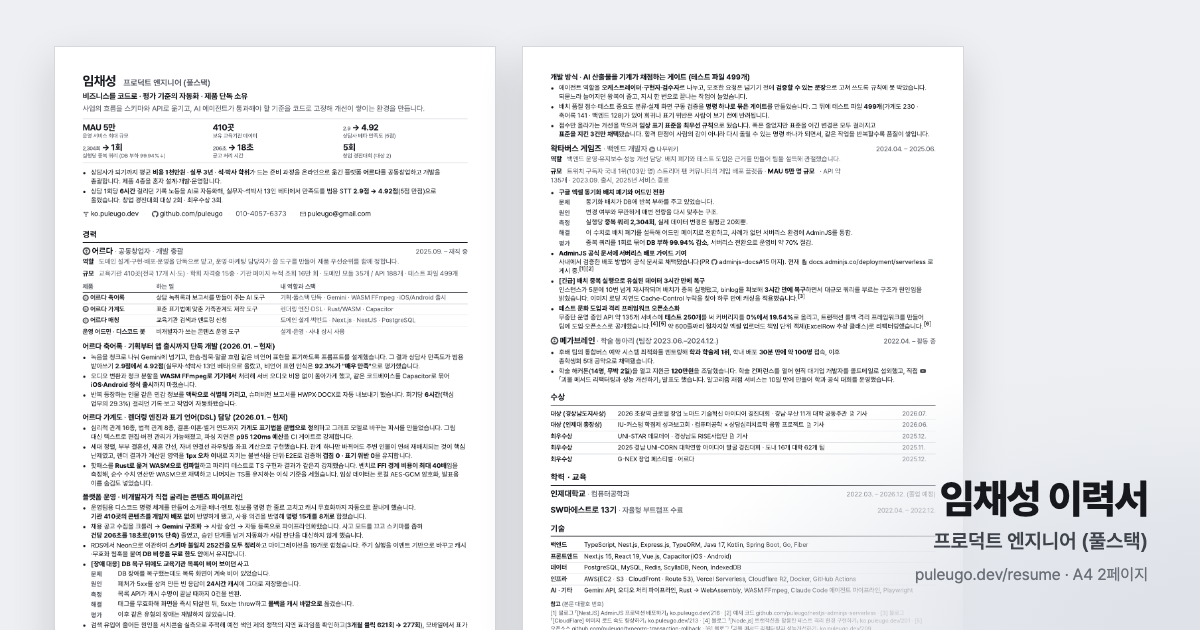
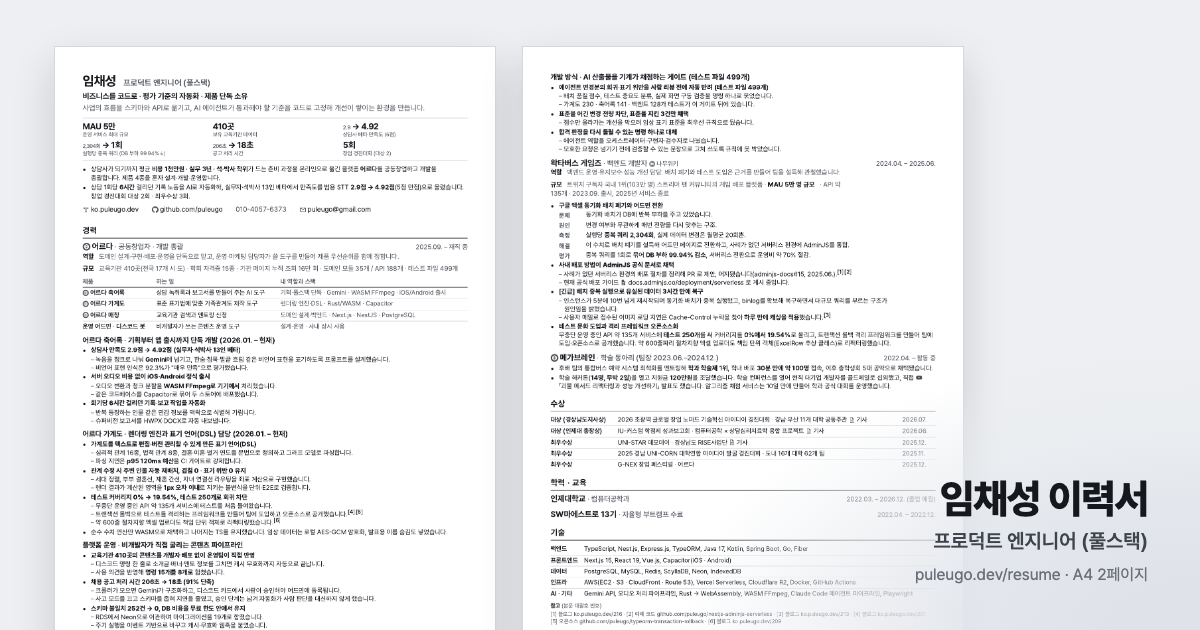
refactor: 성과를 앞세운 2단 위계로 작업 항목 재구성
- 각 항목 제목을 결과 문장(수치 포함)으로 바꾸고, 방법·배경은 하위 줄로 내림
- 개선 대상을 문장에 명시(공고 처리 시간, 상담사 만족도, 테스트 커버리지 등)
- 블록 대신 항목 단위로만 페이지 나눔을 막고 인쇄 여백을 조정해 A4 2페이지 유지
- 참고 목록을 URL 중심으로 축약, og.png 재생성

Claude-Session: https://claude.ai/code/session_01W7x6f6aizACV8L1Ey8iNMM

Changed region(s): [[0.0617, 0.1508, 0.4008, 1.0], [0.4625, 0.1206, 0.8017, 1.0]]

diff --git a/resume/index.html b/resume/index.html
@@ -132,7 +132,8 @@
 	.facts { margin: 0 0 6px; font-size: 9pt; color: var(--sub); }
 	.facts b { color: var(--ink); margin-right: 6px; }
 
-	.work { margin: 13px 0 0; break-inside: avoid; page-break-inside: avoid; }
+	.work { margin: 13px 0 0; }
+	.work li, li.case-study, li.task { break-inside: avoid; page-break-inside: avoid; }
 	.work > strong { display: block; margin-bottom: 2px; font-size: 10pt; }
 	ul { margin: 2px 0 0; padding-left: 15px; }
 	li { margin-bottom: 3px; }
@@ -141,6 +142,10 @@
 	.nowrap { white-space: nowrap; }
 	/* 대표 사례: 제목 한 줄 + 단계 라벨 그리드 (본문 항목과 구분되는 구조) */
 	li.case-study > b, li.task > b:first-child { display: block; }
+	ul.how { margin: 1px 0 0; padding-left: 0; list-style: none; }
+	@media print { ul.how li { line-height: 1.28; } }
+	ul.how li { margin: 0; padding-left: 10px; text-indent: -10px; color: var(--ink); }
+	ul.how li::before { content: "– "; color: var(--sub); }
 	li.case-study dl { display: grid; grid-template-columns: 40px 1fr; gap: 2px 10px; margin: 1px 0 0; }
 	li.case-study dt { font-size: 8.5pt; font-weight: 700; color: var(--sub); padding-top: .15em; letter-spacing: .02em; }
 	li.case-study dd { margin: 0; }
@@ -198,24 +203,24 @@
 	.print-hint { margin-top: 20px; font-size: 9pt; color: var(--sub); }
 	@media print {
 		@page { size: A4; margin: 12mm 13mm; }
-		body { padding: 0; max-width: none; font-size: 8.9pt; line-height: 1.35; }
+		body { padding: 0; max-width: none; font-size: 8.8pt; line-height: 1.32; }
 		a { color: var(--ink); border-bottom: none; }
 		t { border-bottom: none; }
 		h1 { font-size: 18pt; }
 		h2 { margin: 11px 0 5px; }
-		.entry { margin-bottom: 9px; break-inside: auto; }
-		.work { margin-top: 8px; }
+		.entry { margin-bottom: 8px; break-inside: auto; }
+		.work { margin-top: 7px; }
 		.example { font-size: 8.4pt; }
 		li.case-study dl { gap: 1.5px 9px; }
-		.hook-stats { gap: 4px 10px; padding: 6px 0; }
+		.hook-stats { gap: 3px 10px; padding: 5px 0; }
 		.hook-stats b { font-size: 11.5pt; }
 		.hook-stats span { font-size: 7.3pt; }
-		.references { font-size: 7.8pt; margin-top: 8px; }
+		.references { font-size: 7.5pt; margin-top: 6px; }
 		table.data-table { font-size: 8.6pt; }
 		table.data-table th, table.data-table td { padding: 2px 8px 2px 0; }
 		h2 { margin: 14px 0 6px; }
 		[data-tip]:hover::after, #link-card { display: none !important; }
-		li { margin-bottom: 2px; }
+		li { margin-bottom: 1.5px; }
 		.term-toggle, .print-hint, .preview { display: none !important; }
 		#resume { transform: none !important; }
 	}
@@ -302,46 +307,87 @@
 	<div class="work">
 		<strong>어르다 축어록 · 기획부터 앱 출시까지 단독 개발 (2026.01. – 현재)</strong>
 		<ul>
-			<li>녹음을 청크로 나눠 Gemini에 넘기고, 한숨·침묵·말끝 흐림 같은 비언어 표현을 표기하도록 프롬프트를 설계했습니다. 그 결과 상담사 만족도가 범용 받아쓰기 <b>2.9점에서 4.92점</b>(실무자·석박사 13인 베타)으로 올랐고, 비언어 표현 인식은 <b>92.3%가 "매우 만족"</b>으로 평가했습니다.</li>
-			<li>오디오 변환과 청크 분할을 <b>WASM FFmpeg로 기기에서</b> 처리해 서버 오디오 비용 없이 돌아가게 했고, 같은 코드베이스를 Capacitor로 묶어 <b>iOS·Android 정식 출시</b>까지 마쳤습니다.</li>
-			<li>반복 등장하는 인물 같은 민감 정보를 <b>맥락으로 식별해 가리고</b>, 슈퍼비전 보고서를 HWPX·DOCX로 자동 내보내기 했습니다. 회기당 <b>6시간</b>(핵심 업무의 29.3%) 걸리던 기록·보고 작업이 자동화됐습니다.</li>
-		</ul>
+			<li class="task"><b>상담사 만족도 2.9점 → <b>4.92점</b> (실무자·석박사 13인 베타)</b>
+				<ul class="how">
+					<li>녹음을 청크로 나눠 <b>Gemini</b>에 넘기고, 한숨·침묵·말끝 흐림 같은 비언어 표현을 표기하도록 프롬프트를 설계했습니다.</li>
+					<li>비언어 표현 인식은 92.3%가 "매우 만족"으로 평가했습니다.</li>
+				</ul></li>
+			<li class="task"><b>서버 오디오 비용 없이 <b>iOS·Android 정식 출시</b></b>
+				<ul class="how">
+					<li>오디오 변환과 청크 분할을 <b>WASM FFmpeg로 기기에서</b> 처리했습니다.</li>
+					<li>같은 코드베이스를 Capacitor로 묶어 두 스토어에 배포했습니다.</li>
+				</ul></li>
+			<li class="task"><b>회기당 <b>6시간</b> 걸리던 기록·보고 작업을 자동화</b>
+				<ul class="how">
+					<li>반복 등장하는 인물 같은 민감 정보를 맥락으로 식별해 가립니다.</li>
+					<li>슈퍼비전 보고서를 HWPX·DOCX로 자동 내보냅니다.</li>
+				</ul></li>
+			</ul>
 	</div>
 
 	<div class="work">
 		<strong>어르다 가계도 · 렌더링 엔진과 표기 언어(DSL) 담당 (2026.01. – 현재)</strong>
 		<ul>
-			<li>심리적 관계 16종, 법적 관계 8종, 결혼·이혼·별거 연도까지 <b>가계도 표기법을 문법으로 정의</b>하고 그래프 모델로 바꾸는 파서를 만들었습니다. 그림 대신 텍스트로 편집·버전 관리가 가능해졌고, 파싱 지연은 <b>p95 120ms 예산</b>을 CI 게이트로 강제합니다.</li>
-			<li>세대 정렬, 부부 결혼선, 재혼 간선, 자녀 연결선 라우팅을 좌표 계산으로 구현했습니다. 관계 하나만 바뀌어도 주변 인물이 연쇄 재배치되는 것이 핵심 난제였고, 렌더 결과가 계산된 영역을 <b>1px 오차 이내</b>로 지키는 불변식을 단위·E2E로 검증해 <b>겹침 0 · 표기 위반 0</b>을 유지합니다.</li>
-			<li>핫패스를 <b>Rust로 옮겨 WASM으로 컴파일</b>하고 파리티 테스트로 TS 구현과 결과가 같은지 강제했습니다. 벤치로 <b>FFI 경계 비용이 최대 40배</b>임을 측정해, 순수 수치 연산만 WASM으로 채택하고 나머지는 TS를 유지하는 이식 기준을 세웠습니다. 임상 데이터는 로컬 AES-GCM 암호화, 발표용 이름 숨김도 넣었습니다.</li>
-		</ul>
+			<li class="task"><b>가계도를 <b>텍스트로 편집·버전 관리</b>할 수 있게 만든 표기 언어(DSL)</b>
+				<ul class="how">
+					<li>심리적 관계 16종, 법적 관계 8종, 결혼·이혼·별거 연도를 문법으로 정의하고 그래프 모델로 파싱합니다.</li>
+					<li>파싱 지연은 <b>p95 120ms 예산</b>을 CI 게이트로 강제합니다.</li>
+				</ul></li>
+			<li class="task"><b>관계 수정 시 주변 인물 자동 재배치, <b>겹침 0 · 표기 위반 0</b> 유지</b>
+				<ul class="how">
+					<li>세대 정렬, 부부 결혼선, 재혼 간선, 자녀 연결선 라우팅을 좌표 계산으로 구현했습니다.</li>
+					<li>렌더 결과가 계산된 영역을 <b>1px 오차 이내</b>로 지키는 불변식을 단위·E2E로 검증합니다.</li>
+				</ul></li>
+			<li class="task"><b>테스트 커버리지 <b>0% → 19.54%</b>, 테스트 250개로 회귀 차단</b>
+				<ul class="how">
+					<li>무중단 운영 중인 API 약 135개 서비스에 테스트를 처음 들여왔습니다.</li>
+					<li>트랜잭션 롤백으로 테스트를 격리하는 프레임워크를 만들어 팀에 도입하고 오픈소스로 공개했습니다.<sup class="footnote"><a href="https://ko.puleugo.dev/201" data-card="4" data-preview data-tip="블로그 「[Node.js] 트랜잭션을 활용한 테스트 격리 환경 구현하기」">4</a></sup><sup class="footnote"><a href="https://github.com/puleugo/typeorm-transaction-rollback" target="_blank" rel="noopener" data-tip="오픈소스 typeorm-transaction-rollback. 새 탭에서 열립니다">5</a></sup></li>
+					<li>약 600줄 절차지향 엑셀 업로더도 책임 단위 객체로 리팩터링했습니다.<sup class="footnote"><a href="https://ko.puleugo.dev/209" data-card="6" data-preview data-tip="블로그 「괴물 메서드 리팩터링과 성능개선하기」">6</a></sup></li>
+				</ul></li>
+					<li>순수 수치 연산만 WASM으로 채택하고 나머지는 TS를 유지했습니다. 임상 데이터는 로컬 AES-GCM 암호화, 발표용 이름 숨김도 넣었습니다.</li>
+				</ul></li>
+			</ul>
 	</div>
 
 	<div class="work">
 		<strong>플랫폼 운영 · 비개발자가 직접 굴리는 콘텐츠 파이프라인</strong>
 		<ul>
-			<li>운영팀용 디스코드 명령 체계를 만들어 소개글·배너·<t data-x="슈퍼바이저">멘토</t> 정보를 명령 한 줄로 고치고 캐시 무효화까지 자동으로 끝내게 했습니다. <b>기관 410곳의 콘텐츠를 개발자 배포 없이</b> 반영하게 됐고, 사용 의견을 반영해 <b>명령 15개를 8개로</b> 합쳤습니다.</li>
-			<li>채용 공고 수집을 크롤러 → <b>Gemini 구조화</b> → 사람 승인 → 자동 등록으로 파이프라인화했습니다. 사고 모드를 끄고 스키마를 좁혀 <b>건당 206초를 18초로(91% 단축)</b> 줄였고, 승인 단계를 남겨 자동화가 사람 판단을 대신하지 않게 했습니다.</li>
-			<li>RDS에서 Neon으로 이관하며 <b>스키마 불일치 252건을 모두 정리</b>하고 마이그레이션을 19개로 합쳤습니다. 주기 실행을 이벤트 기반으로 바꾸고 캐시·무효화 웹훅을 붙여 <b>DB 비용을 무료 한도 안</b>에서 유지합니다.</li>
-			<li class="case-study"><b>[장애 대응] DB 복구 뒤에도 <t data-x="수련기관">교육기관</t> 목록이 비어 보이던 사고</b>
-				<dl>
-					<dt>문제</dt><dd>DB 장애를 복구했는데도 목록 화면이 계속 비어 있었습니다.</dd>
-					<dt>원인</dt><dd>페처가 5xx를 삼켜 만든 빈 응답이 <b>24시간 캐시</b>에 그대로 저장됐습니다.</dd>
-					<dt>측정</dt><dd>목록 API가 캐시 수명이 끝날 때까지 0건을 반환.</dd>
-					<dt>해결</dt><dd>태그를 무효화해 화면을 즉시 되살린 뒤, 5xx는 throw하고 <b>폴백을 캐시 바깥으로</b> 옮겼습니다.</dd>
-					<dt>평가</dt><dd>이후 같은 유형의 장애는 재발하지 않았습니다.</dd>
-				</dl></li>
-			<li>검색 유입이 줄어든 원인을 서치콘솔 실측으로 추적해 예전 색인 제외 정책의 지연 효과임을 확인하고(<b>3개월 클릭 621회 → 277회</b>), 모바일에서 표가 카드로 바뀌던 구조를 표준 표로 되돌려 <b>지역 페이지 17개</b> 재색인을 요청했습니다.</li>
-		</ul>
+			<li class="task"><b><t data-x="수련기관">교육기관</t> <b>410곳</b>의 콘텐츠를 개발자 배포 없이 운영팀이 직접 반영</b>
+				<ul class="how">
+					<li>디스코드 명령 한 줄로 소개글·배너·<t data-x="슈퍼바이저">멘토</t> 정보를 고치면 캐시 무효화까지 자동으로 끝납니다.</li>
+					<li>사용 의견을 반영해 <b>명령 15개를 8개로</b> 합쳤습니다.</li>
+				</ul></li>
+			<li class="task"><b>채용 공고 처리 시간 206초 → <b>18초</b> (91% 단축)</b>
+				<ul class="how">
+					<li>크롤러가 모으면 Gemini가 구조화하고, 디스코드 카드에서 사람이 승인해야 어드민에 등록됩니다.</li>
+					<li>사고 모드를 끄고 스키마를 좁혀 지연을 줄였고, 승인 단계는 남겨 자동화가 사람 판단을 대신하지 않게 했습니다.</li>
+				</ul></li>
+			<li class="task"><b>스키마 불일치 <b>252건 → 0</b>, DB 비용을 무료 한도 안에서 유지</b>
+				<ul class="how">
+					<li>RDS에서 Neon으로 이관하며 마이그레이션을 19개로 합쳤습니다.</li>
+					<li>주기 실행을 이벤트 기반으로 바꾸고 캐시·무효화 웹훅을 붙였습니다.</li>
+				</ul></li>
+			</ul>
 	</div>
 
 	<div class="work">
 		<strong>개발 방식 · AI 산출물을 기계가 채점하는 게이트 (테스트 파일 499개)</strong>
 		<ul>
-			<li>에이전트 역할을 <b>오케스트레이터·구현자·검수자</b>로 나누고, 모호한 요청은 넘기기 전에 <b>검증할 수 있는 문장</b>으로 고쳐 쓰도록 규칙에 못 박았습니다. 되묻느라 늘어지던 왕복이 줄고, 지시 한 번으로 끝나는 작업이 늘었습니다.</li>
-			<li>배치 품질 점수·테스트 중요도 분류·실제 화면 구동 검증을 <b>명령 하나로 묶은 게이트</b>를 만들었습니다. 그 뒤에 테스트 파일 <b>499개</b>(가계도 230 · 축어록 141 · 백엔드 128)가 있어 회귀나 표기 위반은 사람이 보기 전에 반려됩니다.</li>
-			<li>점수만 올라가는 개선을 막으려 <b>임상 표기 표준을 최우선 규칙</b>으로 뒀습니다. 폭은 줄었지만 표준을 어긴 변경은 모두 걸러지고 <b>표준을 지킨 3건만 채택</b>됐습니다. 합격 판정이 사람의 감이 아니라 다시 돌릴 수 있는 명령 하나가 되면서, 같은 작업을 반복할수록 품질이 쌓입니다.</li>
-		</ul>
+			<li class="task"><b>에이전트 변경분의 회귀·표기 위반을 <b>사람 리뷰 전에 자동 반려</b> (테스트 파일 499개)</b>
+				<ul class="how">
+					<li>배치 품질 점수, 테스트 중요도 분류, 실제 화면 구동 검증을 명령 하나로 묶었습니다.</li>
+					<li>가계도 230 · 축어록 141 · 백엔드 128개 테스트가 이 게이트 뒤에 있습니다.</li>
+				</ul></li>
+			<li class="task"><b>표준을 어긴 변경 전량 차단, <b>표준을 지킨 3건만 채택</b></b>
+				<ul class="how">
+					<li>점수만 올라가는 개선을 막으려 임상 표기 표준을 최우선 규칙으로 뒀습니다.</li>
+				</ul></li>
+			<li class="task"><b>합격 판정을 <b>다시 돌릴 수 있는 명령 하나</b>로 대체</b>
+				<ul class="how">
+					<li>에이전트 역할을 오케스트레이터·구현자·검수자로 나눴습니다.</li>
+					<li>모호한 요청은 넘기기 전에 검증할 수 있는 문장으로 고쳐 쓰도록 규칙에 못 박았습니다.</li>
+				</ul></li>
+			</ul>
 	</div>
 </div>
 
@@ -361,9 +407,17 @@
 					<dt>해결</dt><dd>이 수치로 배치 폐기를 설득해 어드민 페이지로 전환하고, 사례가 없던 서버리스 환경에 AdminJS를 통합.</dd>
 					<dt>평가</dt><dd>중복 쿼리를 1회로 묶어 <b>DB 부하 99.94% 감소</b>, 서버리스 전환으로 운영비 약 70% 절감.</dd>
 				</dl></li>
-		<li class="task"><b>AdminJS 공식 문서에 서버리스 배포 가이드 기여</b>사내에서 검증한 배포 방법이 공식 문서로 채택됐습니다(PR <a href="https://github.com/SoftwareBrothers/adminjs-docs/pull/15" target="_blank" rel="noopener" data-tip="깃허브 PR · adminjs-docs#15 (2025-06-24 머지). 새 탭에서 열립니다"><svg class="icon"><use href="#i-github"/></svg>adminjs-docs#15</a> 머지). 현재 <a href="https://docs.adminjs.co/deployment/serverless" data-preview data-tip="AdminJS 공식 문서 미리보기 (Deployment / Serverless)"><svg class="icon"><use href="#i-doc-b"/></svg>docs.adminjs.co/deployment/serverless</a> 로 게시 중.<sup class="footnote"><a href="https://ko.puleugo.dev/216" data-card="1" data-preview data-tip="블로그 「[NestJS] AdminJS 프로덕션 배포하기」">1</a></sup><sup class="footnote"><a href="https://github.com/puleugo/nestjs-adminjs-serverless" target="_blank" rel="noopener" data-tip="예제 코드 nestjs-adminjs-serverless. 새 탭에서 열립니다">2</a></sup></li>
-		<li class="task"><b><span class="tag">[긴급]</span> 배치 중복 실행으로 유실된 데이터 3시간 만에 복구</b>인스턴스가 5분에 10번 넘게 재시작되며 배치가 중복 실행됐고, binlog를 확보해 <b>3시간 만에 복구</b>하면서 대규모 쿼리를 부르는 구조가 원인임을 밝혔습니다. 이미지 로딩 지연도 Cache-Control 누락을 찾아 하루 만에 캐싱을 적용했습니다.<sup class="footnote"><a href="https://ko.puleugo.dev/213" data-card="3" data-preview data-tip="블로그 「[CloudFlare] 이미지 로드 속도 향상하기」">3</a></sup></li>
-		<li class="task"><b>테스트 문화 도입과 격리 프레임워크 오픈소스화</b>무중단 운영 중인 API 약 135개 서비스에 <b>테스트 250개</b>를 써 커버리지를 <b>0%에서 19.54%</b>로 올리고, 트랜잭션 롤백 격리 프레임워크를 만들어 팀에 도입·오픈소스로 공개했습니다.<sup class="footnote"><a href="https://ko.puleugo.dev/201" data-card="4" data-preview data-tip="블로그 「[Node.js] 트랜잭션을 활용한 테스트 격리 환경 구현하기」">4</a></sup><sup class="footnote"><a href="https://github.com/puleugo/typeorm-transaction-rollback" target="_blank" rel="noopener" data-tip="오픈소스 typeorm-transaction-rollback. 새 탭에서 열립니다">5</a></sup> 약 600줄짜리 절차지향 엑셀 업로더도 책임 단위 객체(ExcelRow 추상 클래스)로 리팩터링했습니다.<sup class="footnote"><a href="https://ko.puleugo.dev/209" data-card="6" data-preview data-tip="블로그 「괴물 메서드 리팩터링과 성능개선하기」">6</a></sup></li>
+		<li class="task"><b>사내 배포 방법이 <b>AdminJS 공식 문서</b>로 채택</b>
+				<ul class="how">
+					<li>사례가 없던 서버리스 환경의 배포 절차를 정리해 PR 로 제안, 머지됐습니다(adminjs-docs#15, 2025.06.).<sup class="footnote"><a href="https://ko.puleugo.dev/216" data-card="1" data-preview data-tip="블로그 「[NestJS] AdminJS 프로덕션 배포하기」">1</a></sup><sup class="footnote"><a href="https://github.com/puleugo/nestjs-adminjs-serverless" target="_blank" rel="noopener" data-tip="예제 코드 nestjs-adminjs-serverless. 새 탭에서 열립니다">2</a></sup></li>
+					<li>현재 공식 배포 가이드 <a href="https://docs.adminjs.co/deployment/serverless" data-preview data-tip="AdminJS 공식 문서 미리보기 (Deployment / Serverless)"><svg class="icon"><use href="#i-doc-b"/></svg>docs.adminjs.co/deployment/serverless</a> 로 게시 중입니다.</li>
+				</ul></li>
+		<li class="task"><b><span class="tag">[긴급]</span> 배치 중복 실행으로 유실된 데이터 <b>3시간 만에 복구</b></b>
+				<ul class="how">
+					<li>인스턴스가 5분에 10번 넘게 재시작되며 동기화 배치가 중복 실행됐고, binlog를 확보해 복구하면서 대규모 쿼리를 부르는 구조가 원인임을 밝혔습니다.</li>
+					<li>사용자 메일로 접수된 이미지 로딩 지연은 Cache-Control 누락을 찾아 <b>하루 만에 캐싱을 적용</b>했습니다.<sup class="footnote"><a href="https://ko.puleugo.dev/213" data-card="3" data-preview data-tip="블로그 「[CloudFlare] 이미지 로드 속도 향상하기」">3</a></sup></li>
+				</ul></li>
+		<li class="task"><b>테스트 문화 도입과 격리 프레임워크 오픈소스화</b>무중단 운영 중인 API 약 135개 서비스에 <b>테스트 250개</b>를 써 커버리지를 <b>0%에서 19.54%</b>로 올리고, 트랜잭션 롤백 격리 프레임워크를 만들어 팀에 도입·오픈소스로 공개했습니다. 약 600줄짜리 절차지향 엑셀 업로더도 책임 단위 객체(ExcelRow 추상 클래스)로 리팩터링했습니다.</li>
 	</ul>
 </div>
 
@@ -416,7 +470,7 @@
 
 	<section class="references">
 		<b>참고</b> (본문 대괄호 번호)
-		<span class="reference-list">[1] 블로그 「[NestJS] AdminJS 프로덕션 배포하기」 ko.puleugo.dev/216 · [2] 예제 코드 github.com/puleugo/nestjs-adminjs-serverless · [3] 블로그 「[CloudFlare] 이미지 로드 속도 향상하기」 ko.puleugo.dev/213 · [4] 블로그 「[Node.js] 트랜잭션을 활용한 테스트 격리 환경 구현하기」 ko.puleugo.dev/201 · [5] 오픈소스 github.com/puleugo/typeorm-transaction-rollback · [6] 블로그 「괴물 메서드 리팩터링과 성능개선하기」 ko.puleugo.dev/209</span>
+		<span class="reference-list">[1] 블로그 ko.puleugo.dev/216 · [2] 예제 코드 github.com/puleugo/nestjs-adminjs-serverless · [3] 블로그 ko.puleugo.dev/213 · [4] 블로그 ko.puleugo.dev/201 · [5] 오픈소스 github.com/puleugo/typeorm-transaction-rollback · [6] 블로그 ko.puleugo.dev/209</span>
 	</section>
 </main>
 
